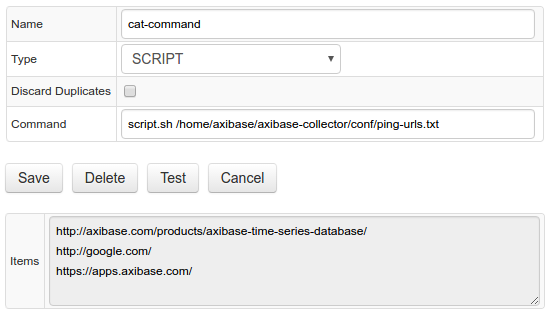
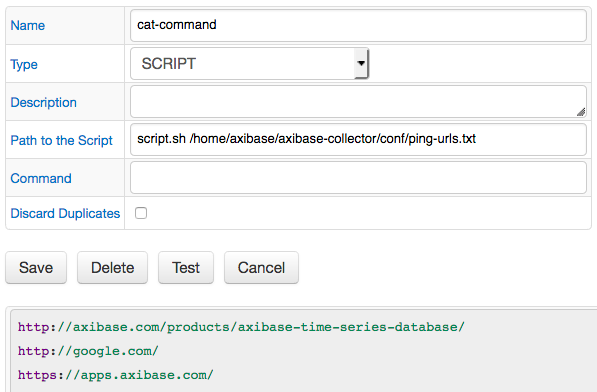
updated Item List description

diff --git a/collections.md b/collections.md
@@ -20,11 +20,13 @@ Supported list types:
 Job types with support for Item List automation:
 
 * FILE
-* JSON
-* TCP
+* HTTP
 * ICMP
+* JSON
 * OVPM
 * SNMP
+* SOCRATA
+* TCP
 
 ### Configuration
 
@@ -80,19 +82,29 @@ List items should be separated by a line break.
 
 #### FILE
 
-Reads lines from a file on the local filesystem. 
+Reads lines from a file on the local filesystem.
 
-Absolute path to the target file should be specified in the `Path` field. 
+**Field** | **Description**
+:--- | :---
+`Path` | Absolute path to the text file containing Item List elements
+`Item Filter` | Expression for matching item. This field also supports regex expression, for example: REGEXP(expression).
 
 If the file is not found, an empty list is returned. List items in the file should be separated with a line break.
 
 ![FILE Type](images/collection_file_type.png)
 
+Exclude items which end with `axibase.com`:
+
+![FILE Type](images/collection_file_type_filtered.png)
+
 #### SCRIPT
 
 Executes a script specified in the `Command` field and reads lines from a standard output as list items.
 
-Only scripts in the `${COLLECTOR_HOME}/conf/scripts` directory can be executed.
+**Field** | **Description**
+:--- | :---
+`Path to the Script` | Relative path to a script file returning Item List elements.<br>Scripts should be located in $AXIBASE_COLLECTOR_HOME/conf/scripts directory.
+`Command` | A list of commands returning Item List elements. During execution a temporary file is created in the directory $AXIBASE_COLLECTOR_HOME/conf/scripts, also this directory is used as working directory.<br>It is recommended to specify a command interpreter by providing a shebang on the first line, e.g. #!/usr/bin/env bash.<br>You must provide the setting 'script.text.execute.allow=true' in server.properties file in order to be able to use this feature.
 
 The `Command` field should start with the script file name (absolute path not supported) and optional script arguments.
 
@@ -145,14 +157,29 @@ ent-3
 
 Reads lines from a remote file/page.
 
-If the file is not found, an empty list is returned. List items should be separated with a line break.
+**Field** | **Description**
+:--- | :---
+`HTTP Pool` | HTTP Pool specifying connection properties to ATSD from which the records will be retrieved.
+`Path` | HTTP(s) Path to file. If HTTP Pool is enabled, the path should be relative. Otherwise the Path should be a full URI including the protocol, host, port and path.
+`Content Format` | Content format in the file. Supported formats: `MULTILINE_TEXT` and `JSON`.
+`Item Filter`| Expression for matching item. This field also supports regex expression, for example: REGEXP(expression).
+`JSON Path` | JSON Path expression to match a list of items in the JSON document.
+`Separator` | Separator used when concatenating multiple field values.
+
+If the file is not found, an empty list is returned. List items should be separated with a line break when the `MULTILINE_TEXT` format is selected.
+
+Examples:
+* [MULTILINE_TEXT](#example-with-multiline-text-content)
+* [JSON](#example-with-json-content)
+
+##### Example with `MULTILINE_TEXT` content
 
 ![URL Type](images/collection_url_type.png)
 
 ***Example***
 
 ```
-URL = http://m.uploadedit.com/ba3s/1490691073396.txt
+URL = http://m.uploadedit.com/bbtc/1502281772577.txt
 ```
 
 Remote file content:
@@ -162,6 +189,8 @@ Remote file content:
 2128406
 2513822
 2513836
+2513838
+2513839
 ```
 
 result:
@@ -170,11 +199,23 @@ result:
 2128406
 2513822
 2513836
+2513838
+2513839
 ```
+
+##### Example with `JSON` content:
+
+![URL Type JSON](images/collection_url_type_json.png)
 
 #### QUERY
 
 Selects data from a database with a SELECT query.
+
+**Field** | **Description**
+:--- | :---
+`Database` | Database from which the item list records will be selected.
+`Query` | SELECT query for retrieving item list elements. Values contained in multiple columns are concatenated using specified separator.
+`Separator` | Separator used when concatenating multiple column values.
 
 Each item is created by concatenating values from **all** columns in a given row separated by the specified token.
 
@@ -185,6 +226,18 @@ If the result set is empty, an empty list is returned.
 #### ATSD_PROPERTY
 
 Requests a list of property records from ATSD with the [property query](https://github.com/axibase/atsd/blob/master/api/data/properties/query.md) method. 
+
+**Field** | **Description**
+:--- | :---
+`HTTP Pool` | HTTP Pool specifying connection properties to ATSD from which the records will be retrieved.
+`Property Type` | Property type to be retrieved.
+`Entity` | Entity name or pattern containing * as a wildcard.
+`Entity Group` | Entity group name to filter records for entities that are members of this group.
+`Entity Expression` | An expression to filter entities: all or a subset matched with Entity/Entity Group fields.
+`Key/Tag Filter` | Expression for matching property records with specified keys or tags.
+`Keys/Tags` | List of property keys and tags to be concatenated into a line using separator specified in Separator field. All fields are concatenated, if this field is set to *.
+`Entity Tags` | List of entity tags to be concatenated into a line using separator specified in Separator field. All fields are concatenated, if this field is set to *.
+`Separator` | Separator used when concatenating multiple key/tag values.
 
 Each item is created by concatenating field values (Keys/Tags + Entity Tags) separated by the specified token.
 
